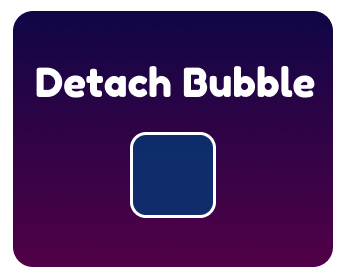
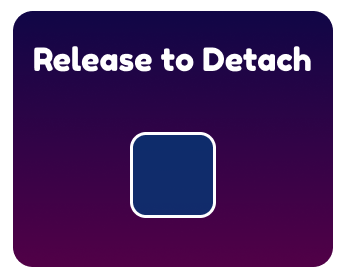
buton prompts

Changed region(s): [[0.0867, 0.1429, 0.9249, 0.3714]]

diff --git a/core/src/edu/cornell/gdiac/bubblebound/PlatformController.java b/core/src/edu/cornell/gdiac/bubblebound/PlatformController.java
@@ -222,6 +222,13 @@ public class PlatformController implements ContactListener, Screen {
 	protected Texture leftMouse;
 	protected Texture rightMouse;
 
+	protected Texture detachswingingBP;
+	protected Texture movegravititesBP;
+	protected Texture placegrappleBP;
+	protected Texture momentumBP;
+	protected Texture rangeBP;
+	protected Texture portalBP;
+
 	protected Texture pauseScreen;
 	protected Texture playButton;
 	protected Texture quitButton;
@@ -512,7 +519,12 @@ public class PlatformController implements ContactListener, Screen {
 		detachBP = directory.getEntry("detachBP", Texture.class);
 		leftMouse = directory.getEntry("leftmouse", Texture.class);
 		rightMouse = directory.getEntry("rightmouse", Texture.class);
-
+		detachswingingBP = directory.getEntry("detachswingingBP", Texture.class);
+		movegravititesBP = directory.getEntry("movegravitiesBP", Texture.class);
+		placegrappleBP = directory.getEntry("placegrappleBP", Texture.class);
+		momentumBP = directory.getEntry("momentumBP", Texture.class);
+		rangeBP = directory.getEntry("rangeBP", Texture.class);
+		portalBP = directory.getEntry("portalBP", Texture.class);
 
 
 		spikeTextureList.add(spikeStrip);
@@ -837,7 +849,59 @@ public class PlatformController implements ContactListener, Screen {
 		bp7.setLetters(letters);
 		prompts.add(bp7);
 
+		ButtonPrompt bp8 = new ButtonPrompt(23, 8, restartBP);
+		bp8.setScale(scale);
+		bp8.setMouse(leftMouse, rightMouse);
+		bp8.setLetters(letters);
+		prompts.add(bp8);
 
+		ButtonPrompt bp9 = new ButtonPrompt(26, 8, toggleBP);
+		bp9.setScale(scale);
+		bp9.setMouse(leftMouse, rightMouse);
+		bp9.setLetters(letters);
+		prompts.add(bp9);
+
+		ButtonPrompt bp10 = new ButtonPrompt(2, 13, pauseBP);
+		bp10.setScale(scale);
+		bp10.setMouse(leftMouse, rightMouse);
+		bp10.setLetters(letters);
+		prompts.add(bp10);
+
+		ButtonPrompt bp11 = new ButtonPrompt(5, 13, detachswingingBP); //deatch while swinging to gain height
+		bp11.setScale(scale);
+		bp11.setMouse(leftMouse, rightMouse);
+		bp11.setLetters(letters);
+		prompts.add(bp11);
+
+		ButtonPrompt bp12 = new ButtonPrompt(8, 13, movegravititesBP); //move between gravities to fall down
+		bp12.setScale(scale);
+		bp12.setMouse(leftMouse, rightMouse);
+		bp12.setLetters(letters);
+		prompts.add(bp12);
+
+		ButtonPrompt bp13 = new ButtonPrompt(11, 13, momentumBP, 5, 7); //gain momentum by going left/right
+		bp13.setScale(scale);
+		bp13.setMouse(leftMouse, rightMouse);
+		bp13.setLetters(letters);
+		prompts.add(bp13);
+
+		ButtonPrompt bp14 = new ButtonPrompt(14, 13, placegrappleBP, 9, 8); //in air place then grapple
+		bp14.setScale(scale);
+		bp14.setMouse(leftMouse, rightMouse);
+		bp14.setLetters(letters);
+		prompts.add(bp14);
+
+		ButtonPrompt bp15 = new ButtonPrompt(17, 13, rangeBP); //get in range of bubbles to attach
+		bp15.setScale(scale);
+		bp15.setMouse(leftMouse, rightMouse);
+		bp15.setLetters(letters);
+		prompts.add(bp15);
+
+		ButtonPrompt bp16 = new ButtonPrompt(20, 13, portalBP); //find portals
+		bp16.setScale(scale);
+		bp16.setMouse(leftMouse, rightMouse);
+		bp16.setLetters(letters);
+		prompts.add(bp16);
 
 
 

diff --git a/core/src/edu/cornell/gdiac/bubblebound/obstacle/ButtonPrompt.java b/core/src/edu/cornell/gdiac/bubblebound/obstacle/ButtonPrompt.java
@@ -98,12 +98,53 @@ public class ButtonPrompt  {
         int[] buttons = input.buttons;
         canvas.draw(buttonTexture, Color.WHITE, 0, buttonTexture.getHeight(),x, y, 0, sx, sy);
         if(two){
+            float sx2 = sx;
+            float sy2 = sy;
             Texture one = letters[getTexture(buttons[mapping1])];
+            if(mapping1 == 8 && input.isMouseControlls()){
+                if(input.mouse){
+                    one = left;
+                }else{
+                    one = right;
+                }
+                sx2 /= 1.7;
+                sy2 /= 1.7;
+            }
+            if(mapping1 == 9 && input.isMouseControlls()){
+                if(input.mouse){
+                    one = right;
+                }else{
+                    one = left;
+                }
+                sx2 /= 1.7;
+                sy2 /= 1.7;
+            }
             //canvas.draw(one, Color.WHITE, one.getWidth()/2f, one.getHeight()/2f, x + (85 * sx), y - (132 * sy), 0,2 * sx, 2 * sy);
-            canvas.draw(one, Color.WHITE, one.getWidth()/2f, one.getHeight()/2f, x + (86 * sx), y - (175 * sy), 0,1.5f * sx, 1.5f * sy);
+            canvas.draw(one, Color.WHITE, one.getWidth()/2f, one.getHeight()/2f, x + (86 * sx), y - (175 * sy), 0,1.5f * sx2, 1.5f * sy2);
 
+
+            float sx3 = sx;
+            float sy3 = sy;
             Texture two = letters[getTexture(buttons[mapping2])];
-            canvas.draw(two, Color.WHITE, two.getWidth()/2f, two.getHeight()/2f, x + (264 * sx), y - (175 * sy), 0,1.5f * sx, 1.5f * sy);
+            if(mapping2 == 8 && input.isMouseControlls()){
+                if(input.mouse){
+                    two = right;
+                }else{
+                    two = left;
+                }
+                sx3 /= 1.7;
+                sy3 /= 1.7;
+            }
+            if(mapping2 == 9 && input.isMouseControlls()){
+                if(input.mouse){
+                    two = left;
+                }else{
+                    two = right;
+                }
+                sx3 /= 1.7;
+                sy3 /= 1.7;
+            }
+            canvas.draw(two, Color.WHITE, two.getWidth()/2f, two.getHeight()/2f, x + (264 * sx), y - (175 * sy), 0,1.5f * sx3, 1.5f * sy3);
 
         }else if(noButtons) {
 

diff --git a/core/src/edu/cornell/gdiac/bubblebound/obstacle/Door.java b/core/src/edu/cornell/gdiac/bubblebound/obstacle/Door.java
@@ -77,28 +77,5 @@ public class Door extends Goal{
 
     public Vector2 getPlayerSpawnLocation(){return spawnLoc;}
 
-    @Override
-    public void draw(GameCanvas canvas) {
-        float sx = drawScale.x / 64f;
-        float sy = drawScale.y / 64f;
-        sx = Math.round(32 * sx) / 32f; //roudns to x.x
-        sy = Math.round(32 * sy) / 32f;
-//        if(targetID == 6 || targetID == 11 || targetID == 16) {
-//            if (grav == 1) {
-//                canvas.draw(texture, new Color(1, 1, 1, 0.95f), origin.x, origin.y, getX() * drawScale.x, getY() * drawScale.y, getAngle(), sx, sy);
-//
-//            } else {
-//                canvas.draw(texture, new Color(1, 1, 1, 0.95f), origin.x, origin.y, getX() * drawScale.x, getY() * drawScale.y, getAngle(), sx, sy);
-//
-//            }
-//        }else{
-            if (grav == 1) {
-                canvas.draw(texture, new Color(1, 1, 1, 1f), origin.x, origin.y, getX() * drawScale.x, getY() * drawScale.y, getAngle(), sx, sy);
 
-            } else {
-                canvas.draw(texture, new Color(1, 1, 1, 1f), origin.x, origin.y, getX() * drawScale.x, getY() * drawScale.y, getAngle(), sx, sy);
-
-            }
-//        }
-    }
 }
